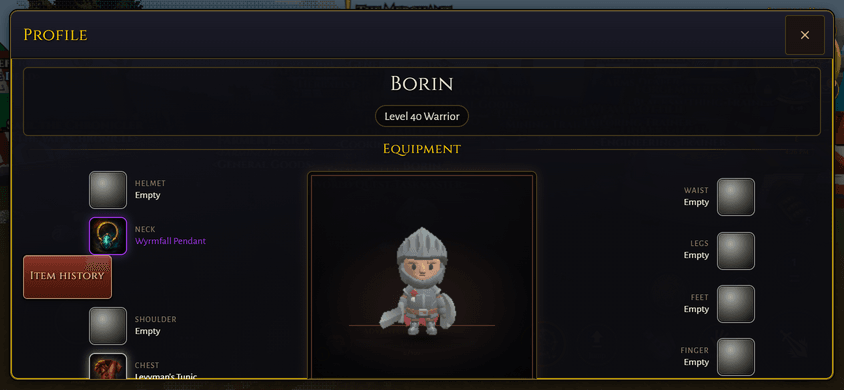
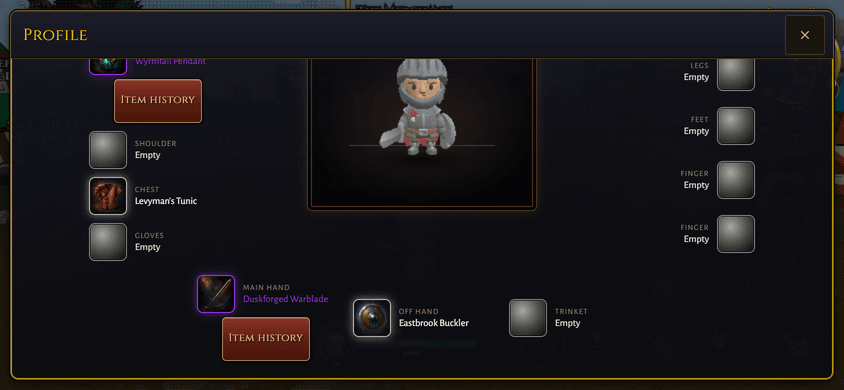
fix(ui): center the inspect touch history button under its row
On touch layouts the Item history button under a worn inspect row sat
off to the left and pushed the paperdoll column sideways; its wrapper
now centers it under the row. The mobile after shot is recaptured with
the Warblade row scrolled into view.

diff --git a/tests/inspect_item_history_dom.test.ts b/tests/inspect_item_history_dom.test.ts
@@ -157,6 +157,9 @@ describe('inspect window: Item history on a worn tracked copy', () => {
     const buttons = root.querySelectorAll<HTMLButtonElement>('.item-history-action');
     expect(buttons).toHaveLength(1);
     expect(buttons[0].parentElement?.contains(slotRow(root, 'Duskforged Warblade'))).toBe(true);
+    // The paperdoll-slot modifier centers the button under its row instead of
+    // letting a bare wrapper push it to the column's left edge.
+    expect(buttons[0].parentElement?.classList.contains('material-source-item-slot')).toBe(true);
     buttons[0].click();
     expect(document.getElementById('item-history-dialog')?.textContent).toContain(
       'Quest reward to Alice on ',

diff --git a/src/ui/item_history_dialog.ts b/src/ui/item_history_dialog.ts
@@ -227,6 +227,7 @@ export function appendItemHistoryActionAfter(
   wrapper.className = 'material-source-item';
   if (element.classList.contains('bank-item')) wrapper.classList.add('material-source-item-cell');
   if (element.classList.contains('trade-item')) wrapper.classList.add('material-source-item-trade');
+  if (element.classList.contains('equip-slot')) wrapper.classList.add('material-source-item-slot');
   parent.insertBefore(wrapper, element);
   wrapper.append(element, button);
   return button;

diff --git a/src/styles/components.css b/src/styles/components.css
@@ -22514,6 +22514,14 @@
     min-width: 0;
     width: 100%;
   }
+  /* An inspect paperdoll row (inspect_window.ts): the touch-layout Item
+     history button sits centered under the row it belongs to, inside the
+     column's own row rhythm, so the column never shifts sideways. */
+  .material-source-item-slot {
+    display: grid;
+    justify-items: center;
+    gap: 4px;
+  }
   .material-source-item-mail {
     display: inline-flex;
     align-items: stretch;
